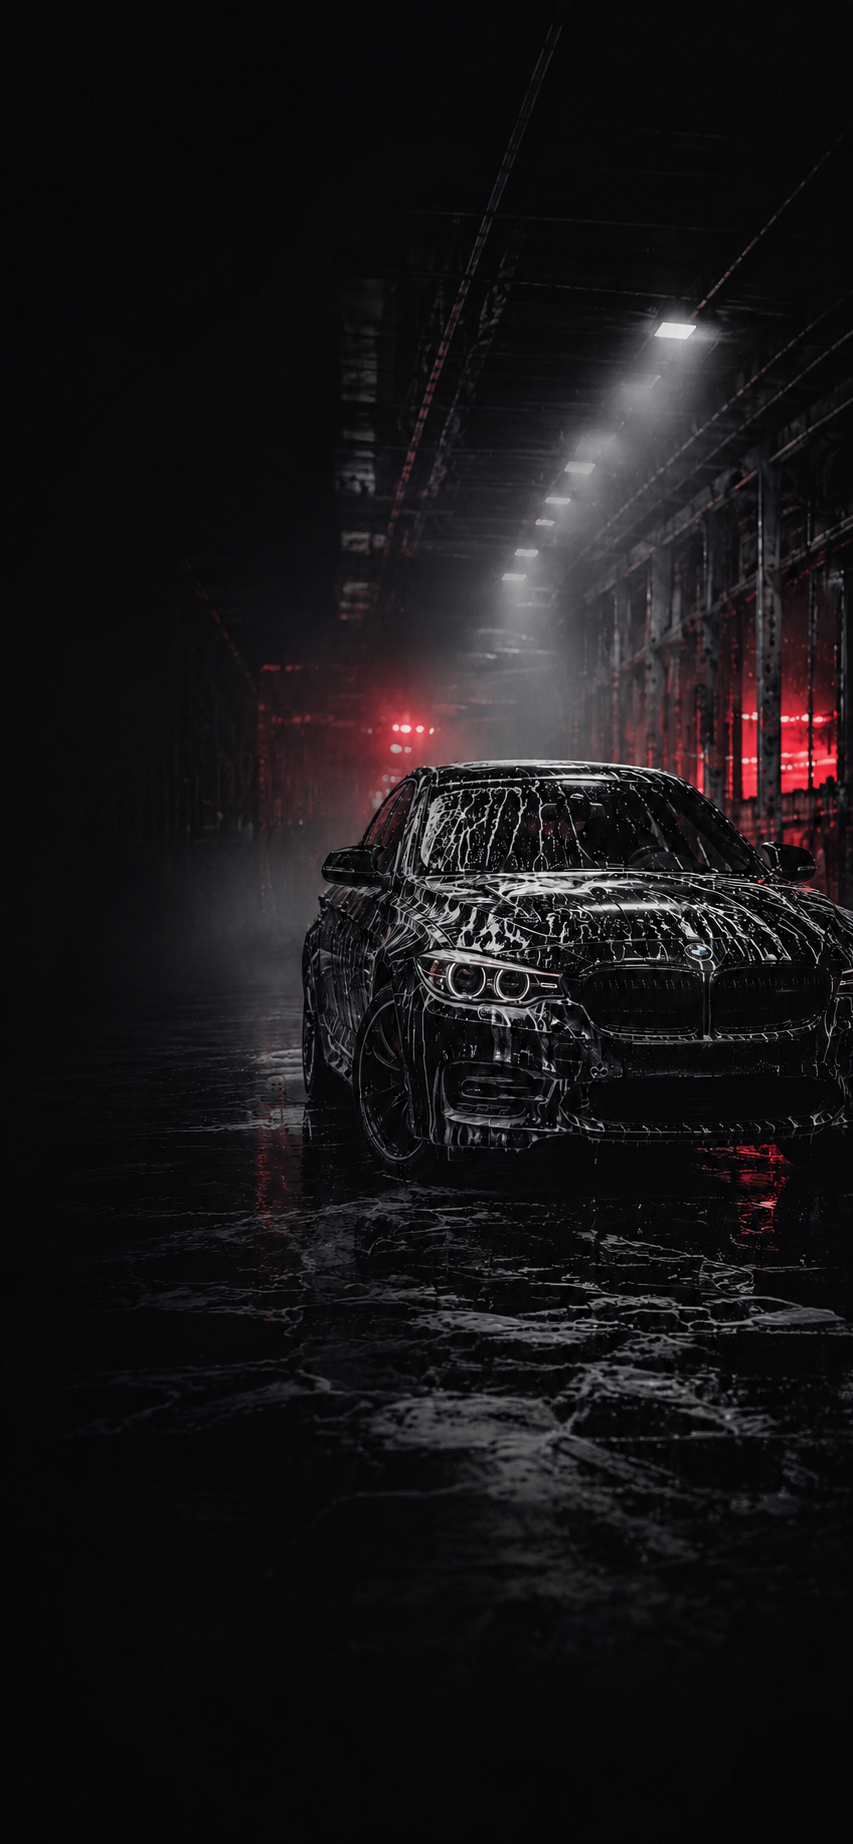
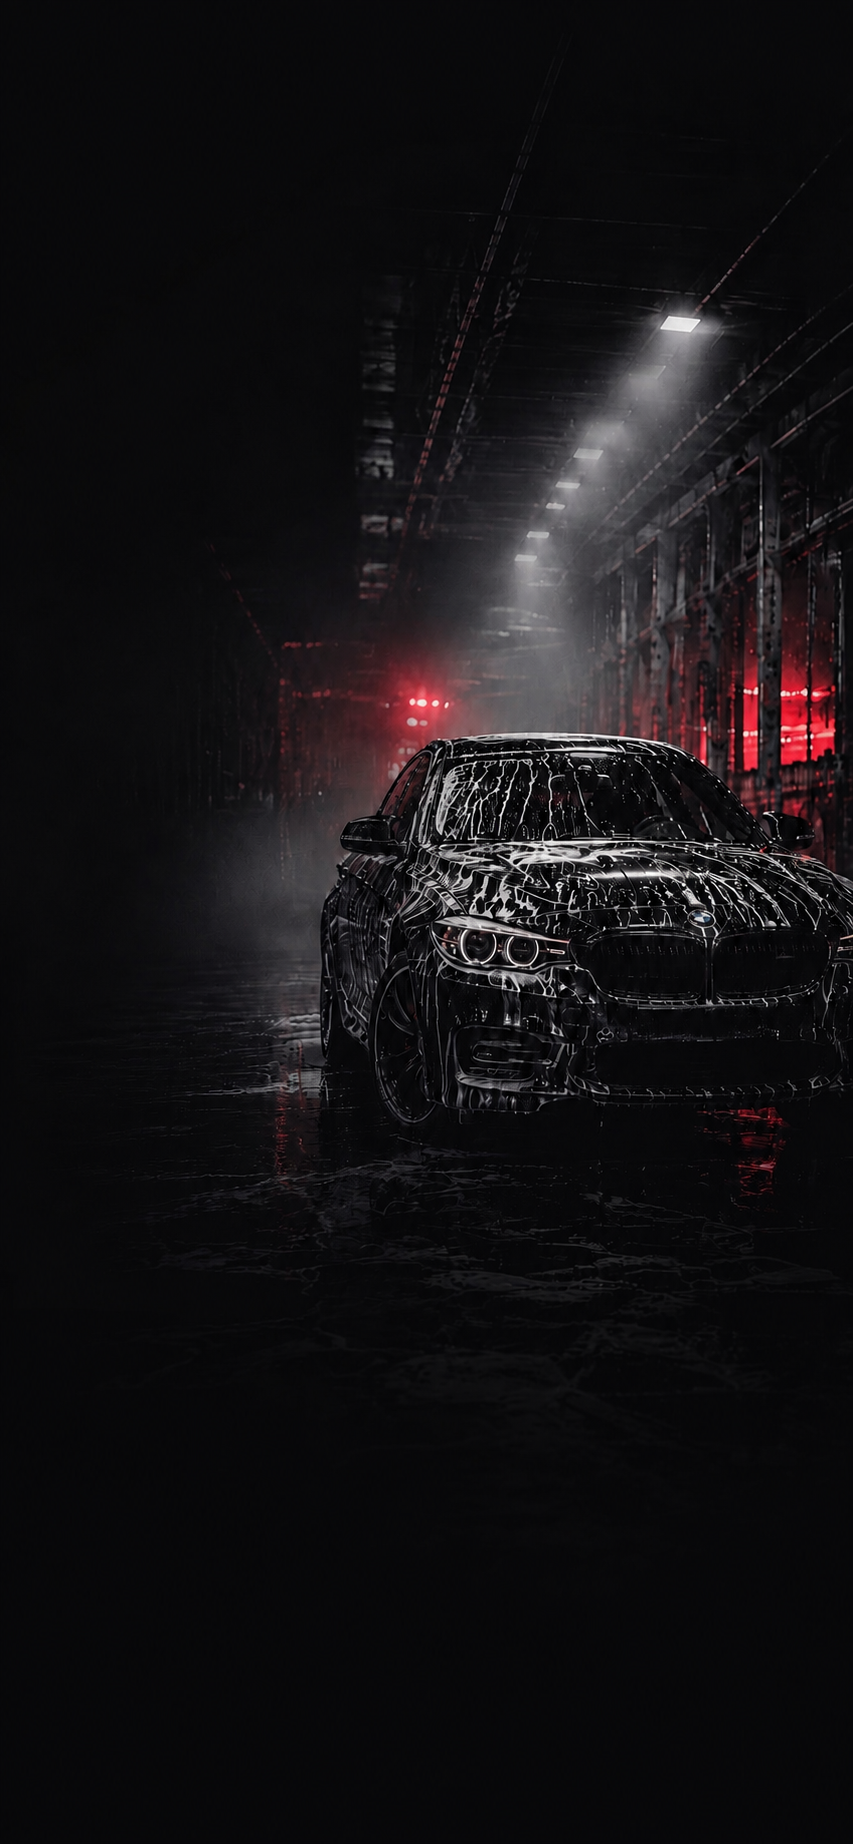
Автохимия: обновлено фото фона IMG_0768

diff --git a/out/avtohimiya.html b/out/avtohimiya.html
@@ -34,7 +34,7 @@
       position: relative; overflow: hidden;
       padding: 64px 40px 56px;
       border-bottom: 1px solid rgba(255,255,255,0.06);
-      background: url('images/IMG_0768.PNG') center center / cover no-repeat;
+      background: url('images/IMG_0768.PNG?v=2') center center / cover no-repeat;
     }
     .hero-cat::after {
       content: ''; position: absolute; inset: 0;
